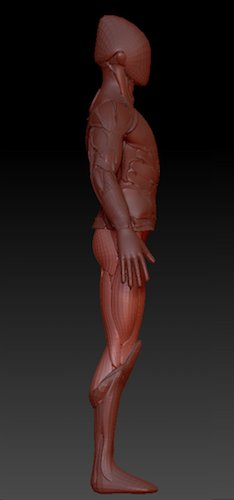
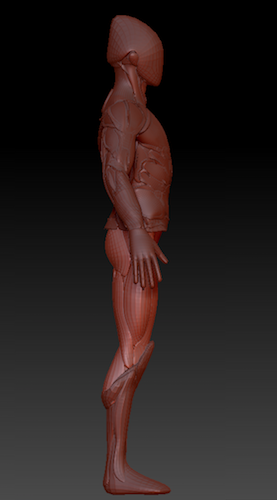
changes

Changed region(s): [[0.3291, 0.03, 0.688, 0.99]]

diff --git a/index.html b/index.html
@@ -390,7 +390,7 @@
                 </div>
 
                 <div class="Characters3 Pic">
-                  <img src="/img/knight.png" style="width: 100%" class="slide-image" alt="Generic placeholder image">
+                  <img src="/img/knightSide.png" style="width: 100%" class="slide-image" alt="Generic placeholder image">
                   <div class="text">Knight</div>
                 </div>
 
